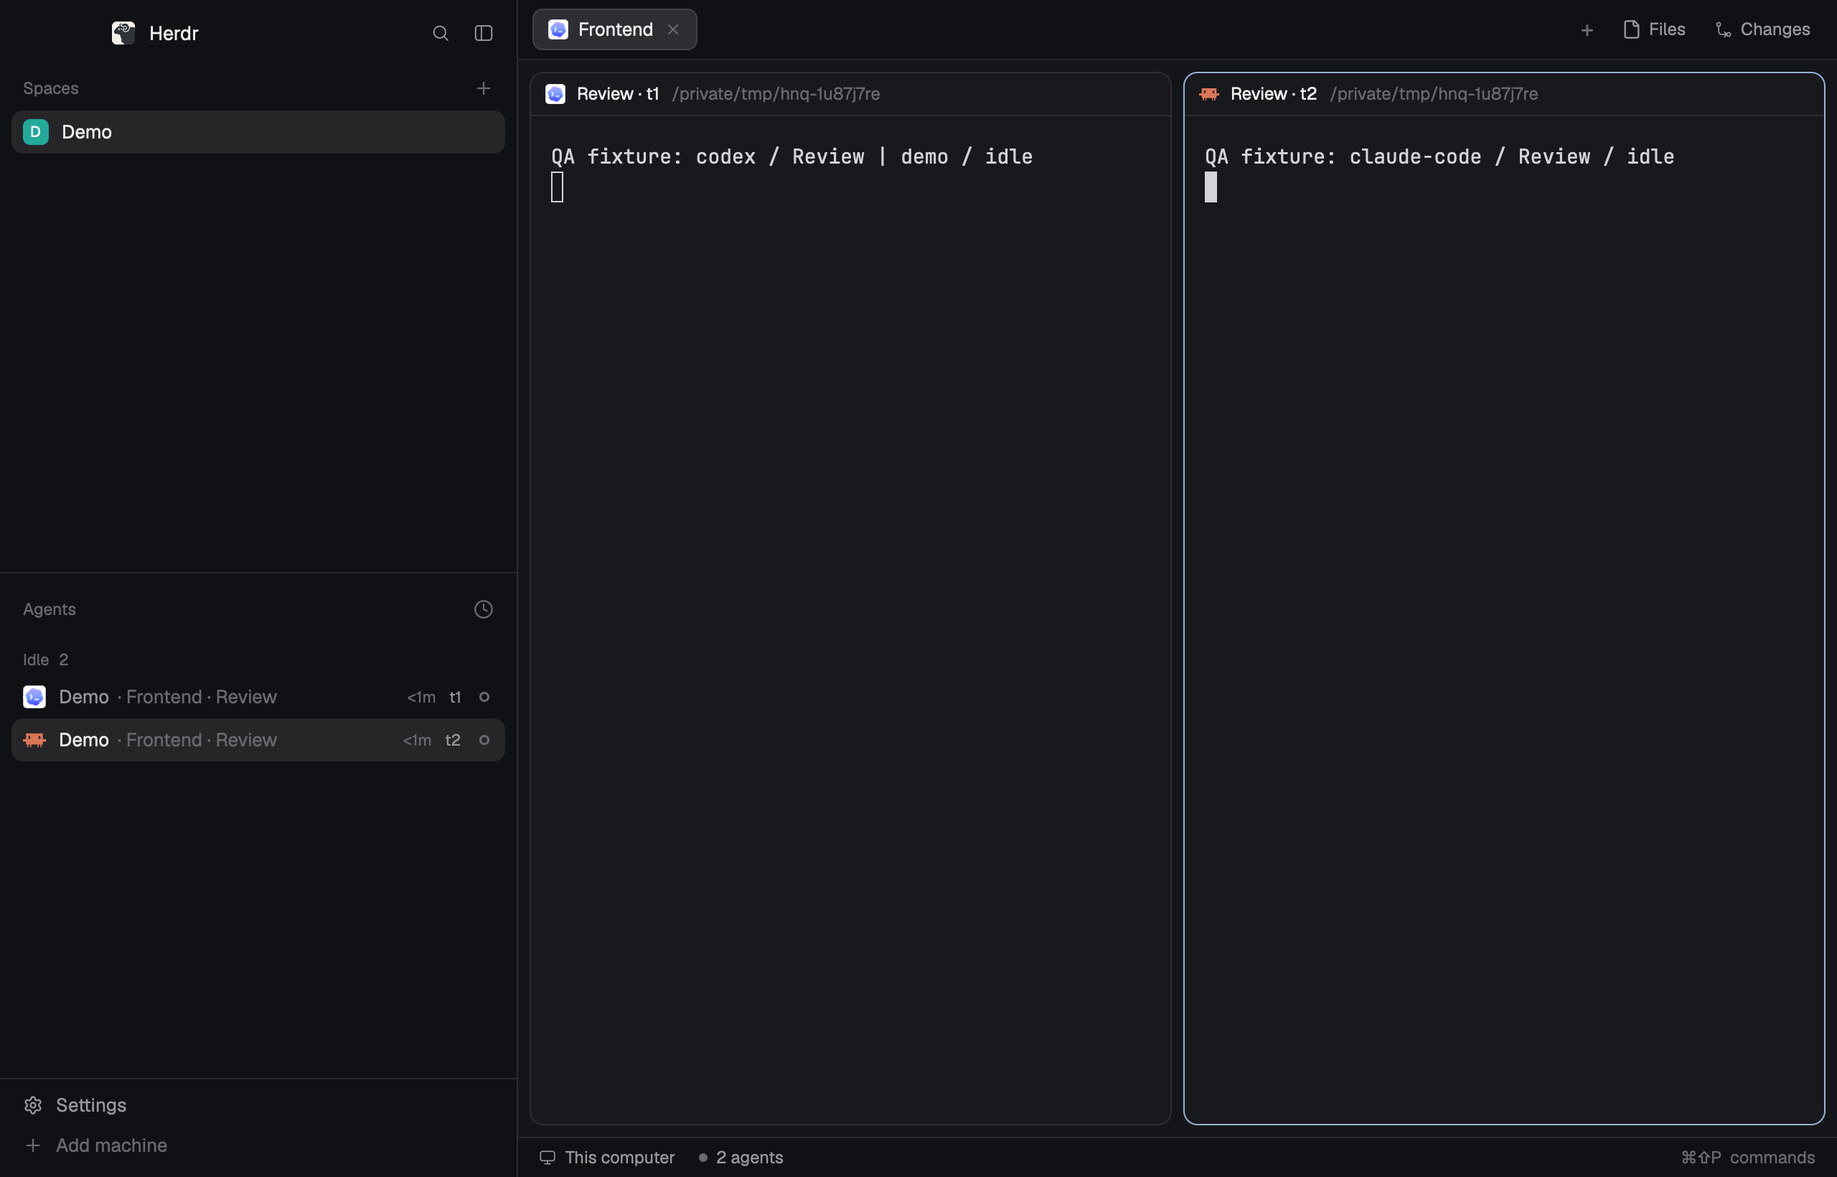
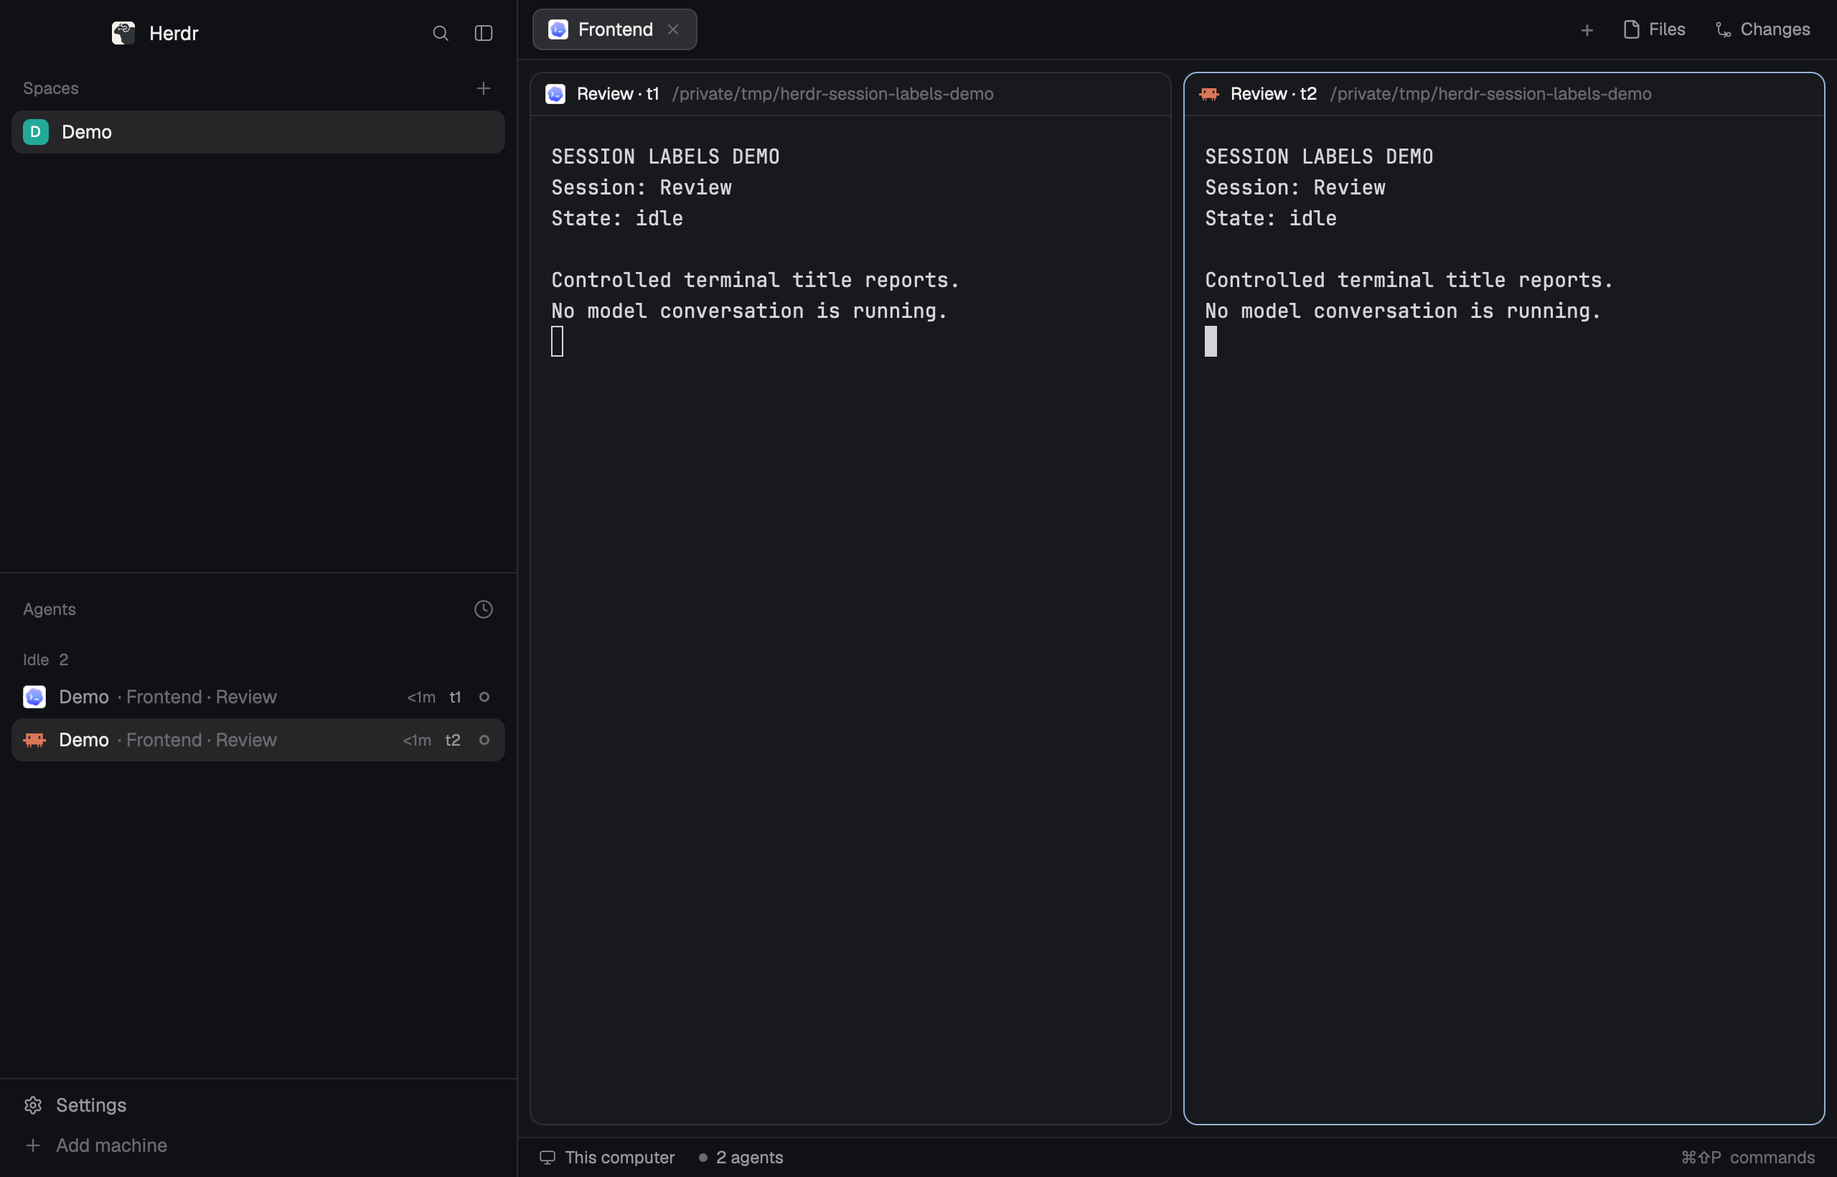
feat: polish layout onboarding and add release validation

diff --git a/mods/session-labels-agents/main.js b/mods/session-labels-agents/main.js
@@ -347,12 +347,13 @@ export default class Agents extends View {
       // Under a space header the space goes without saying; an automatic tab number says nothing.
       // Without a space header above (priority, pinned) the row names its space.
       const full = byPriority || isPinned;
+      const compactLabels = isSessionAgent(a) && (find(layout(), "sidebar")?.size?.px ?? 268) < 240;
       const name = full ? a.space_name || label(a) : more ?? (/^\d+$/.test(label(a)) ? a.program?.name || label(a) : label(a));
       return h_flex()
         .id(`ag-${a.address}`)
         .tooltip(`${a.space_name || ""} · ${label(a)}`)
         .px(8)
-        .h(30)
+        .h(compactLabels ? 42 : 30)
         .flex_none()
         .rounded(8)
         .items_center()
@@ -372,13 +373,16 @@ export default class Agents extends View {
             this.folded.has(a.address) ? this.folded.delete(a.address) : this.folded.add(a.address);
             cx.notify();
           })).child(pic)))
-        .child(h_flex().flex_1().min_w(0).gap(5).items_center()
+        .when(compactLabels, el => el.child(v_flex().flex_1().min_w(0)
+          .child(div().truncate().text_color(t.foreground).child(sessionAgentLabel(a)))
+          .child(div().truncate().text_size(10.5).text_color(t.dim).child(`${a.space_name || ""} · ${a.tab_name || "Tab"}`))))
+        .when(!compactLabels, el => el.child(h_flex().flex_1().min_w(0).gap(5).items_center()
           .child(div().min_w(0).max_w(full && more ? 120 : 200).truncate().text_color(idle ? t.muted : t.foreground).child(name))
-          .when(full && Boolean(more), el => el.child(div().flex_1().min_w(0).truncate().text_color(t.dim).child(`\u00b7 ${more}`))))
+          .when(full && Boolean(more), el => el.child(div().flex_1().min_w(0).truncate().text_color(t.dim).child(`\u00b7 ${more}`)))))
         .when(Boolean(machine), el => el.child(div().text_size(10).text_color(t.dim).child(machine)))
         .when(subs.length > 0, el => el.child(fold(a, subs)))
         .when(this.hovered === a.address, el => el.child(pin))
-        .when(this.hovered !== a.address && Boolean(when), el => el.child(div().flex_none().text_size(11).text_color(t.dim).child(duration(now - when))))
+        .when(!compactLabels && this.hovered !== a.address && Boolean(when), el => el.child(div().flex_none().text_size(11).text_color(t.dim).child(duration(now - when))))
         .when(duplicate.has(a.address), el => el.child(div().flex_none().text_size(11).text_color(t.muted).child(a.address)))
         .child(this.status(t, a, byPriority && !isPinned));
     };

diff --git a/scripts/native-demo.py b/scripts/native-demo.py
@@ -1,0 +1,90 @@
+"""Exercise only a scratch Herdr app home and scratch core; never the user's core."""
+import json, os, pathlib, shutil, subprocess, sys, tempfile, time
+
+package = pathlib.Path(__file__).resolve().parents[1]
+root = pathlib.Path(tempfile.mkdtemp(prefix='hnq-', dir='/private/tmp'))
+appbin = shutil.which('herdr-app') or str(pathlib.Path.home()/'.local/bin/herdr-app')
+corebin = shutil.which('herdr-core') or str(pathlib.Path.home()/'.local/bin/herdr-core')
+env = dict(os.environ)
+for key in ('HC_SOCKET', 'HC_TERMINAL_ID', 'HC_TERMINAL_SOCKET', 'HC_SCOPE'):
+    env.pop(key, None)
+env.update(HERDR_APP_HOME=str(root/'home'), HC_SESSION='hnq'+root.name[-5:],
+           XDG_STATE_HOME=str(root/'state'), XDG_CONFIG_HOME=str(root/'config'),
+           HERDR_APP_NO_SOUND='1', HERDR_TELEMETRY='0')
+home=root/'home';home.mkdir()
+for name in ('layouts','mods'):shutil.copytree(package/name,home/name)
+baseline=home/'mods/baseline-agents';baseline.mkdir()
+shutil.copy2(package/'tests/baseline/agents.js',baseline/'main.js')
+(baseline/'mod.json').write_text('{"place":"none"}')
+base=json.loads((home/'layouts/session-labels.json').read_text())
+text=json.dumps(base).replace('session-labels-agents','baseline-agents').replace('session-labels-pane','pane')
+(home/'layouts/baseline-demo.json').write_text(text)
+(home/'shared.json').write_text(json.dumps({'frame.welcomed':True,'layout':'session-labels'}))
+(home/'settings.json').write_text(json.dumps({'zoom':1,'telemetry':False,'sounds':{'enabled':False}}))
+(home/'update-notes.json').write_text(json.dumps({'last_run':'0.1.13','presented':['0.1.13']}))
+(root/'environment.json').write_text(json.dumps({k:env[k] for k in ('HERDR_APP_HOME','HC_SESSION','XDG_STATE_HOME','XDG_CONFIG_HOME')}))
+print('Scratch environment:',root,flush=True)
+
+def call(binary,*args):
+    result=subprocess.run([binary,*args],env=env,capture_output=True,text=True,timeout=20)
+    if result.returncode:raise RuntimeError(result.stdout+result.stderr)
+    return result.stdout
+def do(command,**args):return json.loads(call(appbin,'do',command,json.dumps(args)) or '{}')
+def shot(name):
+    time.sleep(.6)
+    print(call(appbin,'shot',str(package/name)),flush=True)
+fixture=[sys.executable,str(package/'scripts/demo-terminal.py')]
+demo=pathlib.Path('/private/tmp/herdr-session-labels-demo')
+demo.mkdir(exist_ok=True)
+terminals=[];app=None
+try:
+    call(corebin,'server','start')
+    log=open(root/'app.log','w')
+    app=subprocess.Popen([appbin],env=env,stdin=subprocess.DEVNULL,stdout=log,stderr=log)
+    for _ in range(50):
+        try:
+            state=json.loads(call(appbin,'status'))
+            if state.get('layout'):break
+        except RuntimeError:pass
+        time.sleep(.2)
+    time.sleep(1)
+    for _ in range(5):
+        state=json.loads(call(appbin,'status'))
+        if not state.get('overlays'):break
+        do('overlay.close')
+    for mod in ('session-labels-agents','session-labels-pane'):
+        output=call(appbin,'check',str(package/'mods'/mod))
+        (package/'tests'/(mod+'-check.txt')).write_text(('Command: herdr-app check <package>/mods/'+mod+'\n'+output.replace(str(package),'<package>')+'Exit code: 0\n'))
+    created=do('space.new',name='Demo',folder=str(demo),tab='Frontend',argv=fixture+['codex','Review | demo','idle'])
+    terminals.append(created['terminal'])
+    second=do('pane.split',direction='right',argv=fixture+['claude-code','Review','idle'])
+    terminals.append(second['terminal'])
+    time.sleep(2)
+    do('layout.resize',id='sidebar',px=360)
+    shot('preview.png')
+    shot('docs/after.png')
+    do('layout.switch',name='baseline-demo')
+    shot('docs/before.png')
+    do('layout.switch',name='session-labels')
+    do('layout.resize',id='sidebar',px=180)
+    shot('docs/narrow.png')
+    do('layout.resize',id='sidebar',px=360)
+    do('tab.rename',name='Renamed')
+    call(corebin,'send',second['terminal'],'openclaw\tOpenClaw | Δοκιμή 🤖\tworking')
+    shot('docs/renamed.png')
+    do('layout.resize',id='sidebar',px=180)
+    shot('docs/narrow-renamed.png')
+    result=json.loads(call(appbin,'status'))
+    assert not result.get('errors'),result
+    (package/'tests/native-status.json').write_text(json.dumps({'command':'herdr-app status','stdout':result,'app_version':call(appbin,'--version').strip(),'note':'Isolated home/core; protocol fixtures, no model calls.'},indent=2)+'\n')
+finally:
+    if app and app.poll() is None:
+        app.terminate()
+        try:app.wait(timeout=10)
+        except subprocess.TimeoutExpired:app.kill();app.wait()
+    for terminal in terminals:
+        try:call(corebin,'kill',terminal)
+        except RuntimeError:pass
+    try:call(corebin,'server','stop')
+    except RuntimeError:pass
+    print('Stopped scratch app and scratch core only.',flush=True)

diff --git a/scripts/demo-terminal.py b/scripts/demo-terminal.py
@@ -1,0 +1,16 @@
+"""Emit controlled terminal title/status events; no model or network calls."""
+import base64
+import sys
+
+def emit(app, title, state):
+    encoded = base64.b64encode(title.encode()).decode()
+    print(f'\033]2;{title}\033\\\033]7501;state={state}:app={app}:title={encoded}\033\\', end='', flush=True)
+    print('\033[2J\033[HSESSION LABELS DEMO\n', end='')
+    print('Session: '+title.replace('OpenClaw | ','').replace(' | demo',''))
+    print('State: '+state+'\n\nControlled terminal title reports.\nNo model conversation is running.', flush=True)
+
+emit(*sys.argv[1:4])
+for line in sys.stdin:
+    fields = line.rstrip('\r\n').split('\t')
+    if len(fields) == 3:
+        emit(*fields)

diff --git a/README.md b/README.md
@@ -1,42 +1,104 @@
 # Herdr Session Labels
 
-A personal Herdr layout that keeps the tab name and the agent's session name together. Codex, Claude Code and compatible OpenClaw adapters get live session names in pane headers; identical sidebar labels gain a terminal address that does not shrink with the label.
+Keep **tab context and session names together** in [Herdr Desktop](https://github.com/herdrdev/herdr-app), so two agents named “Review” remain distinguishable.
 
-![Herdr Session Labels](preview.png)
+[![Tests](https://github.com/code2m/herdr-session-labels/actions/workflows/tests.yml/badge.svg)](https://github.com/code2m/herdr-session-labels/actions/workflows/tests.yml)
+[Version 0.1.0](https://github.com/code2m/herdr-session-labels/releases/tag/v0.1.0) · [Changelog](CHANGELOG.md) · [Validation](VALIDATION.txt)
+
+![Session names and terminal identities in Herdr](preview.png)
+
+A layout arranges the Herdr window; mods draw its panels. This layout adds two custom mods for the agent list and pane headers. It preserves tab context, follows session-title changes and adds terminal IDs when names collide. Upstream already supports per-agent titles in shared tabs; keeping the tab context is the additional behavior here.
+
+## Before installing
+
+- **Tested only on Herdr Desktop 0.1.13, macOS.** This is not a legacy Herdr TUI plugin.
+- Custom copies of the agent list and pane header do not automatically receive upstream mod updates. Other referenced shipped panels remain Herdr's own. Revisit compatibility when upgrading Herdr.
+- No model configuration, hooks or keybindings are installed. The mods make no network calls or automatic subprocess launches.
+- OpenClaw needs an existing adapter that reports agent status and `OpenClaw | display name` as the terminal title. An adapter is **not bundled**.
 
 ## Install
 
-Tested on Herdr Desktop 0.1.13 only. Later versions have not been validated. This is not a plugin for the legacy Herdr terminal application.
+Download the release archive or clone this repo, then open a terminal in its root. Herdr must already be installed and running. The commands below target the standard macOS/Linux app home, `~/.config/herdr-app`; if you use `HERDR_APP_HOME`, they use that instead. Windows installation has not been validated.
 
-Ask your agent to read `RECIPE.md` and the files in this folder, then install the layout following your Herdr app's `AGENTS.md`. Copy `layouts/session-labels.json` and the two directories under `mods/` into the corresponding directories in your Herdr app home. Never overwrite existing names: rename the incoming layout/mod directories and update their references if they already exist.
+```sh
+# Run from the downloaded repository directory, using sh/zsh/bash.
+(
+set -e
+app_home="${HERDR_APP_HOME:-$HOME/.config/herdr-app}"
+for item in layouts/session-labels.json mods/session-labels-agents mods/session-labels-pane; do
+  if [ -e "$app_home/$item" ]; then
+    echo "Already exists: $app_home/$item — stop; do not overwrite."
+    exit 1
+  fi
+done
+mkdir -p "$app_home/layouts" "$app_home/mods"
+cp layouts/session-labels.json "$app_home/layouts/"
+cp -R mods/session-labels-agents mods/session-labels-pane "$app_home/mods/"
+herdr-app check "$app_home/mods/session-labels-agents"
+herdr-app check "$app_home/mods/session-labels-pane"
+)
+```
 
-Run `herdr-app check` on both copied mod directories, then select the Herdr Session Labels layout. Return to your previous layout to disable it. No changes to agents, shell configuration, model providers, hooks or keybindings are needed.
+Both checks must pass. Then select **Session Labels** in Herdr's layout picker, or run `herdr-app do layout.switch --name session-labels`. Note your previous layout first so you can switch back.
 
-## Behavior
+If names already exist, stop and inspect them. To install under different names, update all of these references together:
 
-- Sidebar: `Space · Tab · Session` in Priority view; the space is a group heading in Grouped view.
-- Identical displayed identities within a space gain their terminal address.
-- Full identity is available on hover when text is truncated.
-- Pane headers follow each supported agent's own title and append an address for matching names within the tab.
-- Existing focus, status, pinning and sub-agent tree controls are retained.
-- Automatic tab numbers are deliberately retained as tab context. Other agent types keep the cloned sidebar's labeling behavior.
+1. The layout filename and both `content.mod` entries in its JSON.
+2. The custom mod directories and `openOverlay({ mod: ... })` in the agents mod.
+3. Every `mods/session-labels-pane/` asset path in the pane mod.
 
-The layout does not rename the tab or the agent's saved conversation. It presents the live terminal title. It makes no network calls and launches no programs automatically. User actions use Herdr commands to focus, split, zoom, close and pin terminals, and to open the existing sort menu; storage remembers view state and pin migration.
+Alternatively, ask your agent to follow [RECIPE.md](RECIPE.md) and your app home's `AGENTS.md`. The recipe is the reconstruction/install brief used by Herdr's layout catalog.
 
-## Compatibility and limits
+## Disable or remove
 
-Tested with the Herdr 0.1.13 native mod renderer on macOS and controlled OSC 2/7501 terminal fixtures. Real title captures and their limits are recorded in tests/title-captures.json. No claim of Linux/Windows native testing is made.
+Switch to your previous layout first (for example `herdr-app do layout.switch --name main`). This leaves your terminals running. To uninstall this layout, delete only these three installed paths:
 
-Codex parsing removes an observed leading braille activity glyph and expects its `session | folder` title, optionally preceded by a known bracketed status component (synthetic regression coverage; not observed in the current captures). Claude Code uses its terminal title after removing one observed leading ✳ or ◐ status glyph. Other Claude glyphs have not been verified. OpenClaw requires an adapter that emits both status reports and a terminal title `OpenClaw | display name`; this repository does not include or install that adapter. If no recognized name exists, the display falls back to the program and terminal identity.
+- `layouts/session-labels.json`
+- `mods/session-labels-agents/`
+- `mods/session-labels-pane/`
 
-Long text still truncates in a narrow sidebar; hover shows the complete identity. The compact rail displays numbered agents rather than names. Personal clones do not automatically receive future upstream mod changes.
+Use your actual names if you renamed them during installation. Herdr-managed view-state storage and existing terminal pin labels are not reset by deleting these files. Do not remove your app home or shared state.
 
-## Development
+## What changes
 
-`node tests/names.cjs` (Node.js 18 or later) exercises the actual mods with mock element builders. These tests do not replace native visual checks. `tests/baseline/agents.js` is the unmodified shipped 0.1.13 sidebar used to reproduce the original shared-tab label collision.
+| View | Labels |
+| --- | --- |
+| Normal sidebar | `Space · Tab · Session`, with a separate terminal ID for duplicates |
+| Sidebar 160–239px | Session first; space and tab on a second line; elapsed time hidden |
+| Compact rail below 160px | Numbered agents, as in the shipped sidebar |
+| Pane header | Session name, plus a terminal ID for matching names within a tab |
 
-This is an independent layout, not an official Herdr fix. Upstream already added per-agent titles in shared tabs in [a167060](https://github.com/herdrdev/herdr-app/commit/a167060ef1bf5180ba93e4cd7de4f92267b9775b). This layout keeps tab context as an additional preference, following [Herdr's contribution policy](https://github.com/herdrdev/herdr-app/blob/master/CONTRIBUTING.md).
+Hover for the complete sidebar identity. Automatic tab numbers are retained as useful context. Focus, pinning, status grouping and sub-agent trees retain the cloned behavior. Stored tab names and saved conversations are never renamed.
 
-See `NOTICE` for provenance and `LICENSE` for Apache-2.0 terms.
+### Before and after
 
-The title formats are conventions rather than a session-name API. A name beginning with a recognized status glyph and a space is ambiguous and may lose that prefix. Unrecognized Codex formats use the program/address fallback; they are not silently claimed to be supported. Kept-subagent filtering comes from upstream master; its mock tests pass, but native subagent navigation has not been verified.
+Same demonstration sessions, using the shipped **0.1.13** sidebar versus this layout. These screenshots are an illustration with controlled title reports, not model conversations or a comparison against current upstream master.
+
+| Shipped 0.1.13 | Session Labels |
+| --- | --- |
+| ![Shipped sidebar](docs/before.png) | ![Session Labels sidebar](docs/after.png) |
+
+[Narrow sidebar example](docs/narrow.png)
+
+## Title compatibility
+
+| Program | Recognized format | Evidence |
+| --- | --- | --- |
+| Codex 0.166.0 | `name \| folder`, optionally prefixed by a braille activity glyph | Actual working title captured; one leading braille glyph removed |
+| Codex | Known bracketed status component before `name \| folder` | Synthetic regression cases; not in current captures |
+| Claude Code 2.1.319 | `✳ name`, `◐ name`, or plain title | Actual titles captured during a local rename |
+| OpenClaw adapter | `OpenClaw \| display name` plus status reports | Protocol fixtures only; adapter not validated here |
+
+Other Claude activity glyphs remain unverified. Unrecognized Codex formats use a program/address fallback. Names beginning with a recognized status glyph and a space are ambiguous and can lose that prefix. Long text still truncates; the tooltip provides the full identity. Other agent types retain the cloned sidebar's label policy.
+
+## Development and validation
+
+Node.js 18 or newer; no npm dependencies:
+
+```sh
+npm test
+```
+
+Tests render the actual mod code with lightweight element mocks; they do not test native GPUI layout. GitHub Actions runs them on Node 18, 22 and 24. See [VALIDATION.txt](VALIDATION.txt) for native checks, screenshot reproduction and explicit limits. Native sub-agent keyboard navigation, restart persistence, other OSes and later Herdr binaries remain unverified.
+
+Independent community layout; not endorsed by Herdr. Apache-2.0; see [NOTICE](NOTICE) for upstream provenance and [LICENSE](LICENSE) for terms.

diff --git a/RECIPE.md b/RECIPE.md
@@ -8,7 +8,7 @@ Keep tab context alongside Codex, Claude Code and OpenClaw session names in Herd
 
 A two-column layout based on Herdr's main layout. The left sidebar is initially 268px wide (44–480px bounds), with brand, spaces, agents and footer. The work column has the tab bar, active tab, optional Files/Changes panel and status footer. Pane frames have 30px always-visible headers and 8px gaps. Use theme colors and native text styling.
 
-Agent rows retain the shipped 30px height. In Priority view they show space followed by tab and session. Grouped view puts the space above the rows. Duplicate full labels in a space gain a separate, nonshrinking terminal-address suffix. The full sidebar label is a tooltip. Pane headers show the session without repeating the tab, adding an address when names in that tab match.
+Agent rows are 30px tall at normal widths. At 160–239px, supported agents use 42px rows with the session on the first line, space/tab on the second and no elapsed time. In Priority view they show space followed by tab and session. Grouped view puts the space above the rows. Duplicate full labels in a space gain a separate, nonshrinking terminal-address suffix. The full sidebar label is a tooltip. Pane headers show the session without repeating the tab, adding an address when names in that tab match.
 
 ## How it behaves
 

diff --git a/CHANGELOG.md b/CHANGELOG.md
@@ -1,0 +1,11 @@
+# Changelog
+
+## 0.1.0 — 2026-11-07
+
+- Keep tab context alongside live session names for Codex, Claude Code and compatible OpenClaw title reports.
+- Distinguish identical names with visible terminal addresses in the sidebar and pane headers.
+- Show the session on its own line in sidebars from 160px to 239px wide.
+- Normalize observed activity prefixes and preserve names that resemble status messages.
+- Include 24 render tests, automated checks on Node 18/22/24, and reproducible macOS screenshot tooling.
+
+Native validation: Herdr Desktop 0.1.13 on macOS. Other native platforms and later releases remain unverified.
